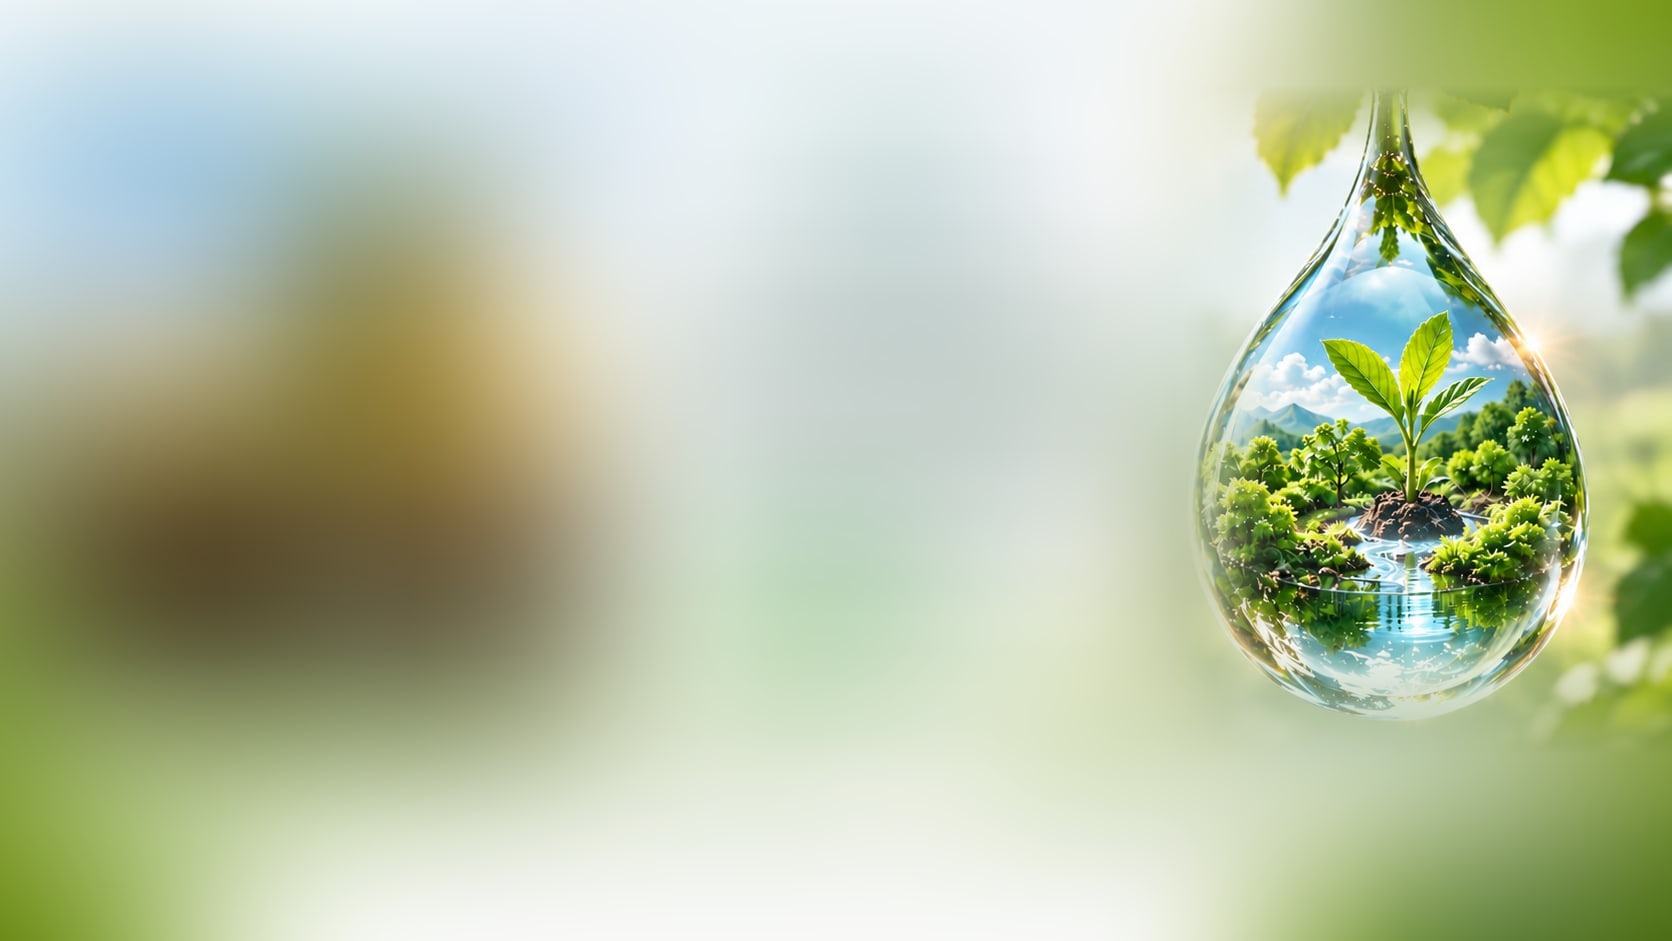
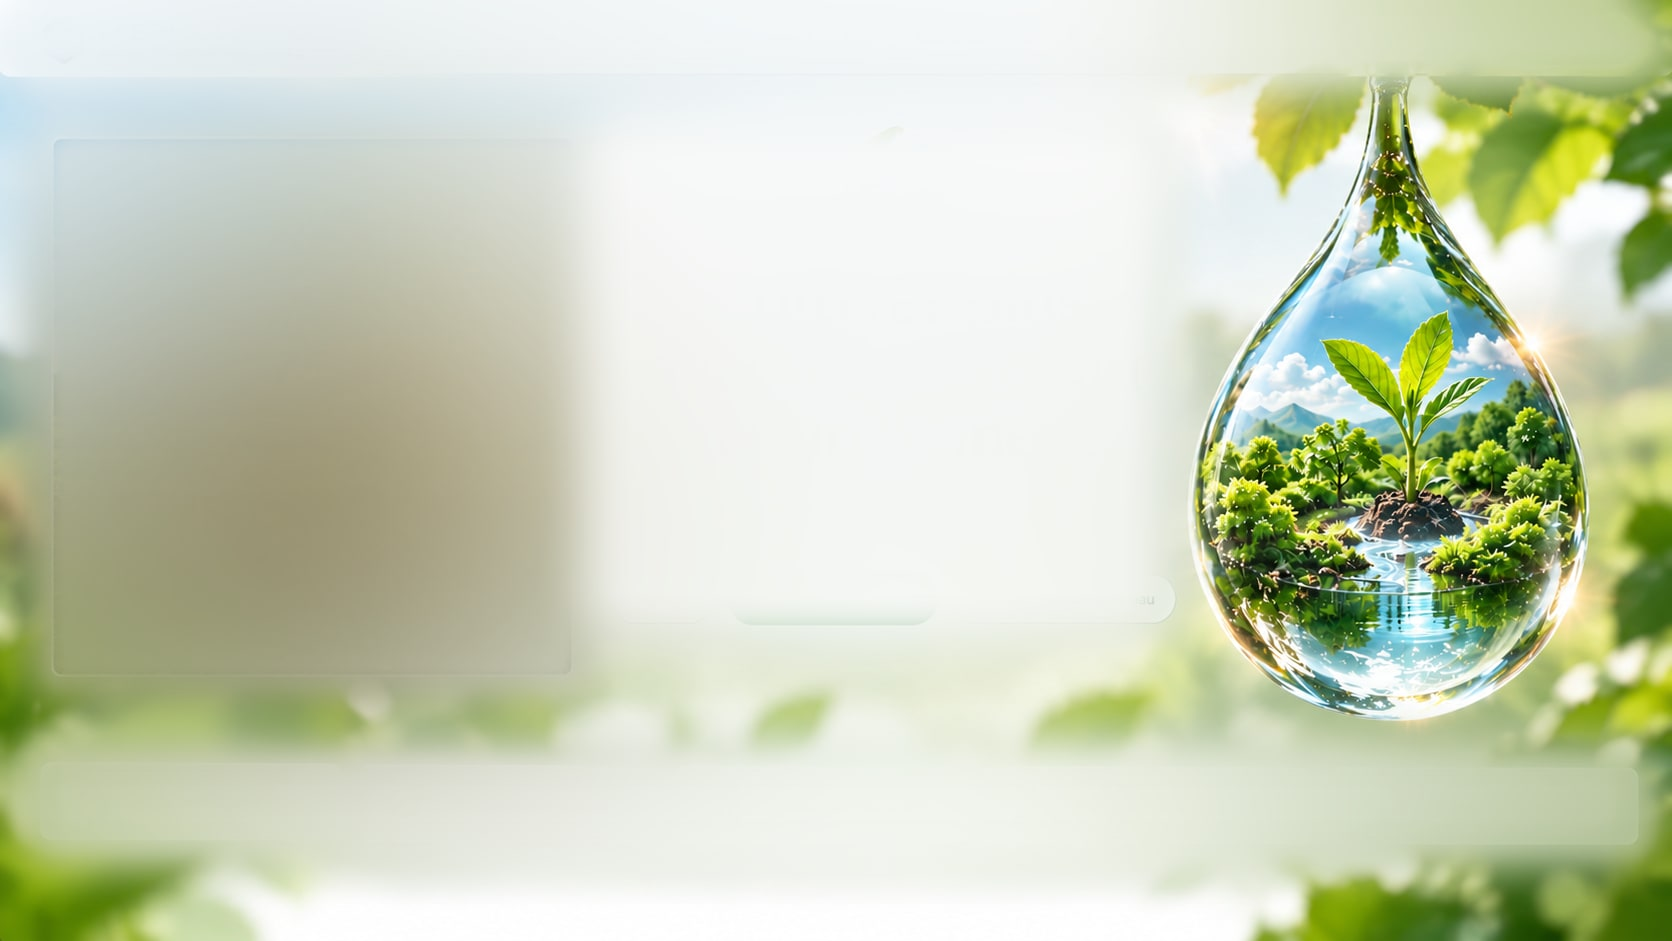
Keep the reference sharp, blurring only where its text was drawn
Blurring the whole reference to strip its interface cost the cover everything
that made it the reference: the drop, the foliage and the bokeh all went to
mush, and what was left read as pale and vague.

The blur is now masked to the four bands that carry drawn interface - the nav,
the tomato inset, the block of claim and buttons, the row of cards - where the
backdrop is flat enough that replacing it leaves no seam. Everything else is
the reference untouched. The claim is drawn large and near-black, so blur
alone still ghosted it; white over those same bands clears it and gives the
pale halo the reference carries under its own text.

The radial veil in CSS drops to near nothing in turn, the photograph having
brought its own.

diff --git a/src/app/globals.css b/src/app/globals.css
@@ -198,9 +198,9 @@ body {
   z-index: 1;
   background-image: radial-gradient(
       62% 56% at 50% 42%,
-      rgba(255, 255, 255, 0.58) 0%,
-      rgba(255, 255, 255, 0.42) 40%,
-      rgba(255, 255, 255, 0.16) 72%,
+      rgba(255, 255, 255, 0.24) 0%,
+      rgba(255, 255, 255, 0.16) 40%,
+      rgba(255, 255, 255, 0.06) 72%,
       rgba(255, 255, 255, 0) 100%
     ),
     linear-gradient(
